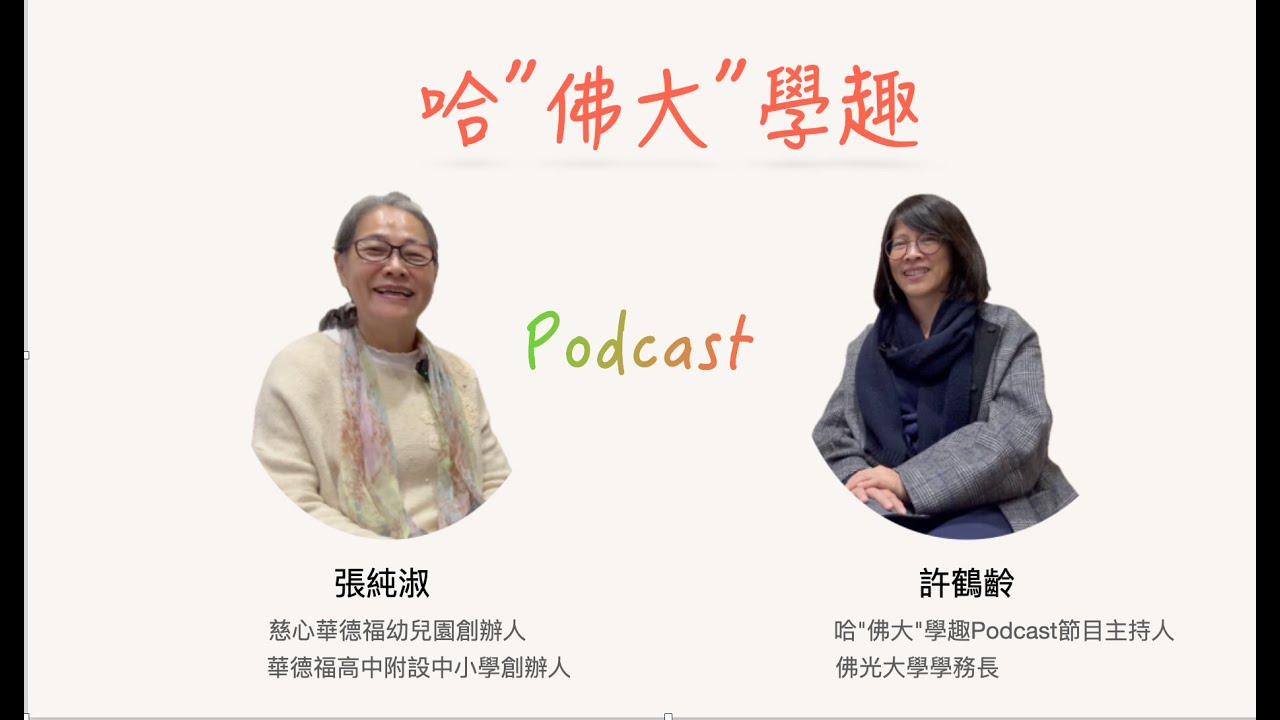
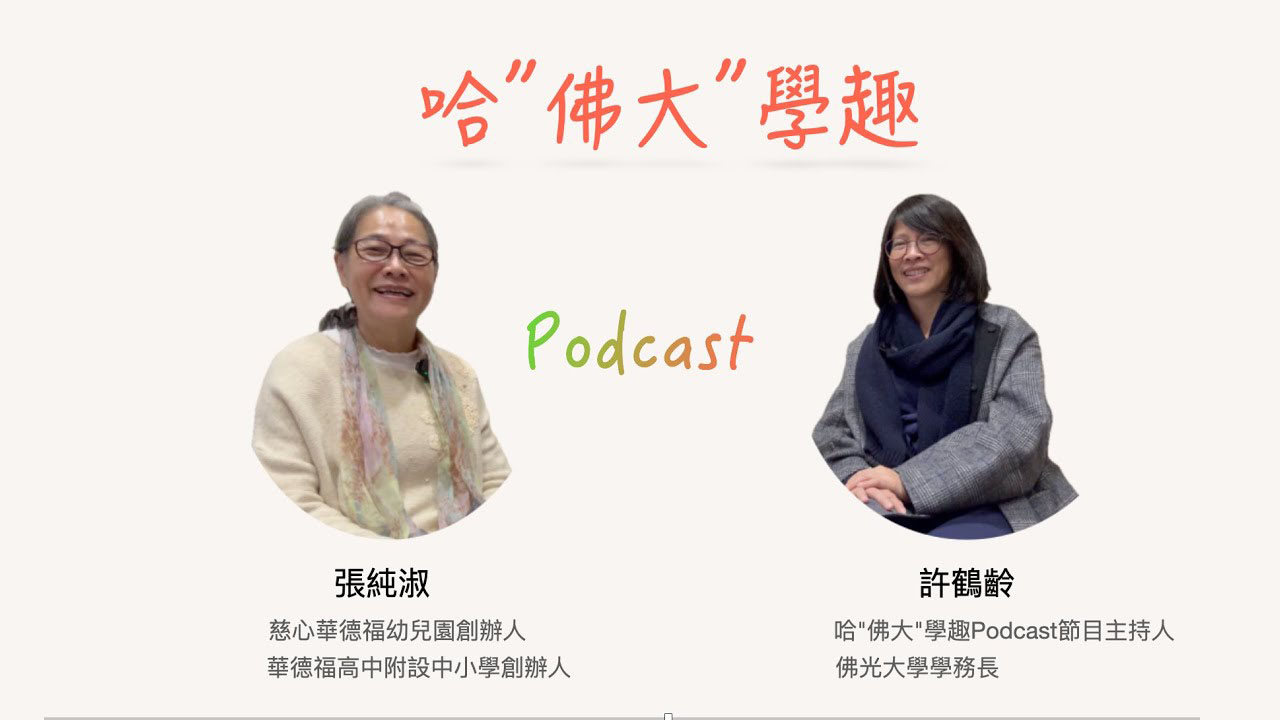
0121

Changed region(s): [[0.9375, 0.0, 1.0, 1.0], [0.0, 0.0, 0.0312, 1.0]]

diff --git a/Assets/Starter Assets/Runtime/ThirdPersonController/Scripts/ThirdPersonController.cs b/Assets/Starter Assets/Runtime/ThirdPersonController/Scripts/ThirdPersonController.cs
@@ -159,8 +159,8 @@ namespace StarterAssets
         {
             _hasAnimator = TryGetComponent(out _animator);
 
-            //JumpAndGravity();
-            //GroundedCheck();
+            JumpAndGravity();
+            GroundedCheck();
             Move();
             //要開槍
             if (Input.GetKeyDown(KeyCode.Mouse0))
@@ -304,19 +304,19 @@ namespace StarterAssets
                 // stop our velocity dropping infinitely when grounded
                 if (_verticalVelocity < 0.0f)
                 {
-                    _verticalVelocity = -2f;
+                    _verticalVelocity = -0.1f;
                 }
 
                 // Jump
                 if (_input.jump && _jumpTimeoutDelta <= 0.0f)
                 {
                     // the square root of H * -2 * G = how much velocity needed to reach desired height
-                    _verticalVelocity = Mathf.Sqrt(JumpHeight * -2f * Gravity);
+                    _verticalVelocity = Mathf.Sqrt(JumpHeight * -0.2f * Gravity);
 
                     // update animator if using character
                     if (_hasAnimator)
                     {
-                        _animator.SetBool(_animIDJump, true);
+                        //_animator.SetBool(_animIDJump, true);
                     }
                 }
 
